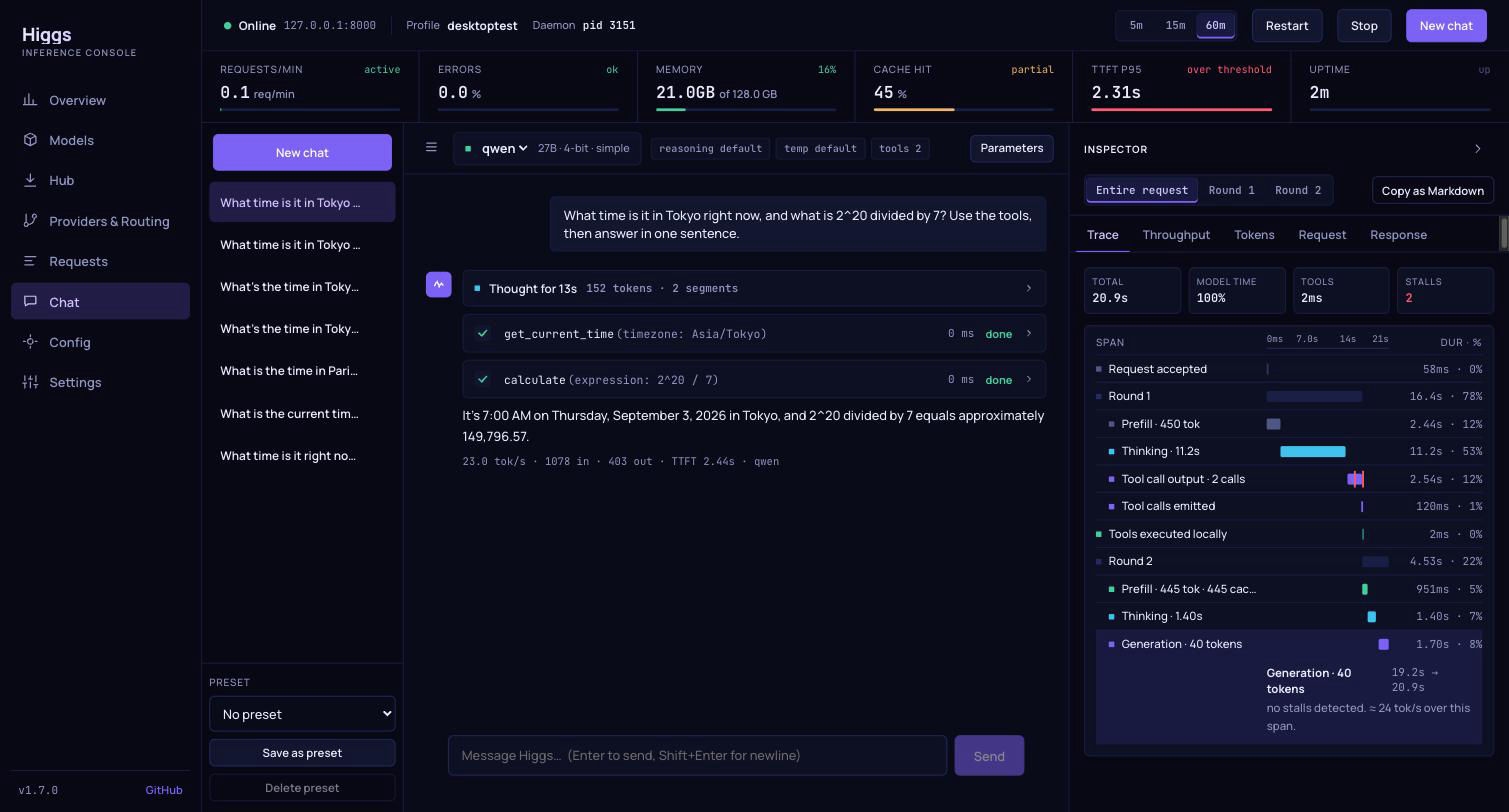
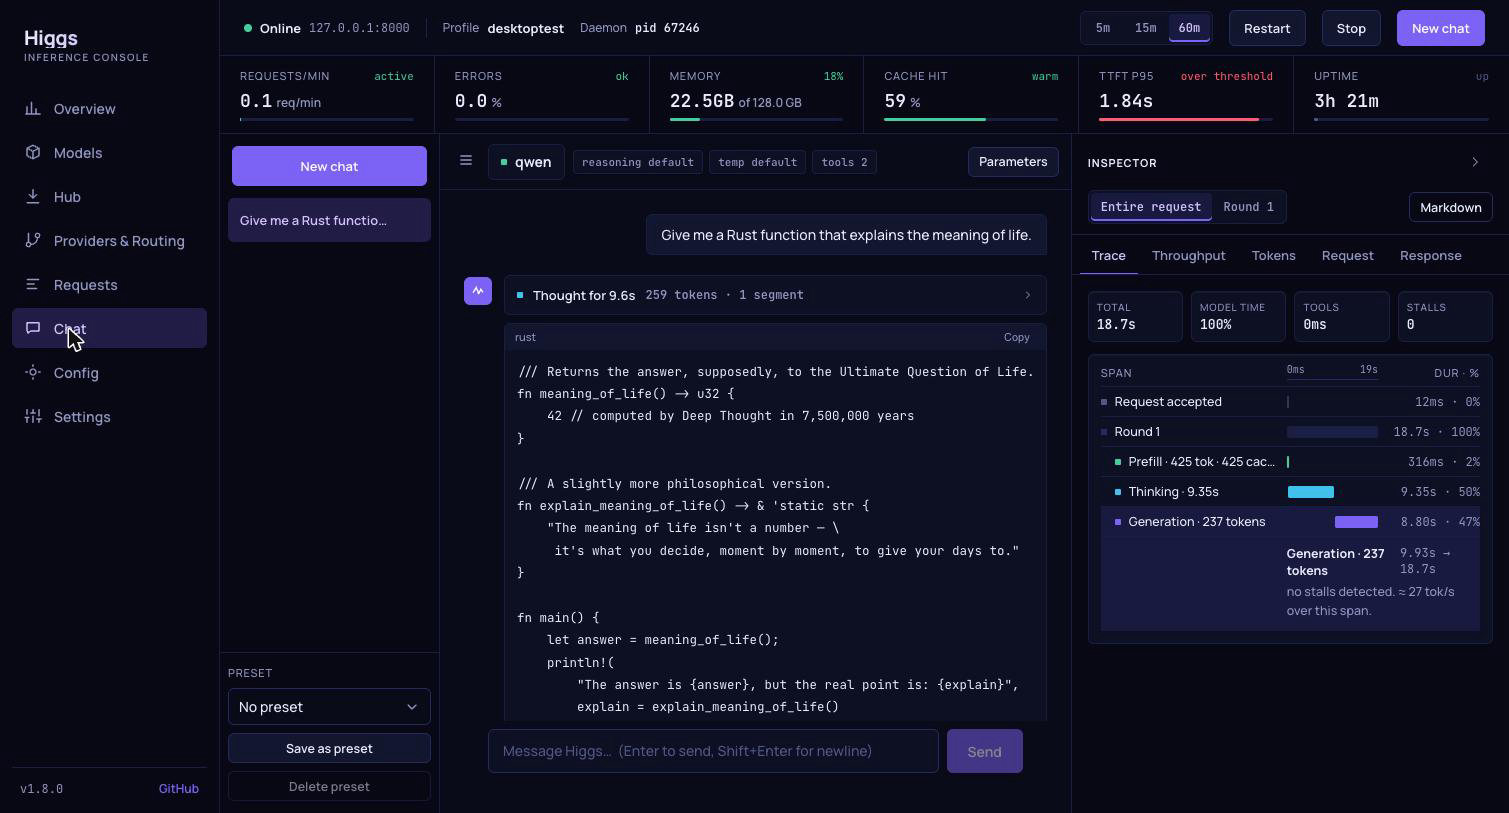
fix(desktop): chat layout at narrower windows, new README GIF (#297)
* fix(desktop): keep the chat usable at narrower windows and re-record the README GIF

The inspector and conversation panels now shrink before the message
column does, the top bar chips ellipsize instead of clipping, the model
detail and middle trace ticks are dropped when there is no room, and the
inspector copy button is short enough to keep the header on one line.
The README GIF shows a Qwen chat ending on the Overview thresholds.

* docs(desktop): match the renamed inspector copy button

---------

diff --git a/apps/desktop/src/views/chat.css b/apps/desktop/src/views/chat.css
@@ -109,8 +109,8 @@
   min-height: 56px;
   display: flex;
   align-items: center;
-  gap: 10px;
-  padding: 10px 16px;
+  gap: 8px;
+  padding: 10px 12px;
   border-bottom: 1px solid var(--border);
   flex-wrap: nowrap;
   overflow: hidden;
@@ -190,9 +190,8 @@
 }
 
 .chip {
-  display: inline-flex;
-  align-items: center;
-  gap: 4px;
+  display: inline-block;
+  line-height: 20px;
   flex-shrink: 1;
   min-width: 0;
   max-width: 160px;
@@ -233,7 +232,7 @@
 
 /* Right: request inspector */
 .inspector {
-  width: 480px;
+  width: clamp(340px, 34%, 440px);
   flex-shrink: 0;
   border-left: 1px solid var(--border);
   background: var(--bg-rail);
@@ -658,4 +657,50 @@
   outline: 2px solid var(--accent);
   outline-offset: -2px;
   border-radius: 4px;
+}
+
+/* Narrow windows: keep the message column usable by shrinking the side panels. */
+@media (max-width: 1260px) {
+  .chat-sidebar:not(.collapsed) {
+    width: 180px;
+  }
+}
+
+.chat-main {
+  min-width: 320px;
+}
+
+.composer textarea {
+  min-width: 0;
+}
+
+/* In the top bar the chips share one line and shrink with an ellipsis
+   instead of wrapping or clipping. */
+.chat-topbar .param-chips {
+  flex: 1;
+  min-width: 0;
+  flex-wrap: nowrap;
+  overflow: hidden;
+}
+
+.chat-topbar > .btn,
+.chat-topbar > .icon-btn {
+  flex-shrink: 0;
+}
+
+/* Below 1700px the top bar cannot fit the model detail and the glance chips;
+   the detail is also in the Models view, so drop it first. */
+@media (max-width: 1700px) {
+  .chat-model-detail {
+    display: none;
+  }
+}
+
+/* The trace axis is ~100px wide when the inspector is at its narrow size;
+   keep only the start and end labels so they never overlap. */
+@media (max-width: 1700px) {
+  .waterfall-ticks span:nth-child(2),
+  .waterfall-ticks span:nth-child(3) {
+    display: none;
+  }
 }

diff --git a/apps/desktop/src/components/RequestInspector.tsx b/apps/desktop/src/components/RequestInspector.tsx
@@ -84,12 +84,13 @@ function ChevronRightIcon() {
   );
 }
 
-function CopyButton({ text, label = "Copy" }: { text: string; label?: string }) {
+function CopyButton({ text, label = "Copy", title }: { text: string; label?: string; title?: string }) {
   const [copied, setCopied] = useState(false);
   return (
     <button
       type="button"
       className="btn small ghost"
+      title={title}
       onClick={() => {
         void navigator.clipboard.writeText(text).then(() => {
           setCopied(true);
@@ -581,7 +582,7 @@ export function RequestInspector({ message, settings, system, onReplay, replayDi
             ))}
           </div>
           <div className="inspector-header-spacer" />
-          <CopyButton text={traceToMarkdown(message, settings, system)} label="Copy as Markdown" />
+          <CopyButton text={traceToMarkdown(message, settings, system)} label="Markdown" title="Copy the full trace as Markdown" />
         </div>
       </div>
       <div className="tabs">

diff --git a/apps/desktop/src/styles.css b/apps/desktop/src/styles.css
@@ -366,6 +366,7 @@ a:focus-visible {
 }
 
 .signal-top {
+  white-space: nowrap;
   display: flex;
   justify-content: space-between;
   align-items: center;
@@ -375,6 +376,8 @@ a:focus-visible {
 .signal-state {
   font-family: var(--mono);
   font-size: 11px;
+  overflow: hidden;
+  text-overflow: ellipsis;
 }
 
 .signal-state.ok {

diff --git a/docs/desktop.md b/docs/desktop.md
@@ -91,7 +91,7 @@ whole call: request accepted, per-round prefill (with cache hits), thinking,
 generation, tool execution, stream closed, on a time axis with duration and
 share per span and stalls over one second marked. The scope switch narrows the
 axis to one round. Throughput, Tokens, Request (with Replay and Copy as curl),
-and Response (every SSE chunk) cover the rest. "Copy as Markdown" produces a
+and Response (every SSE chunk) cover the rest. The "Markdown" button produces a
 fixed-format report of the run for sharing speed numbers.
 
 **Config.** Form and raw TOML editors for the active config or profile, saved
